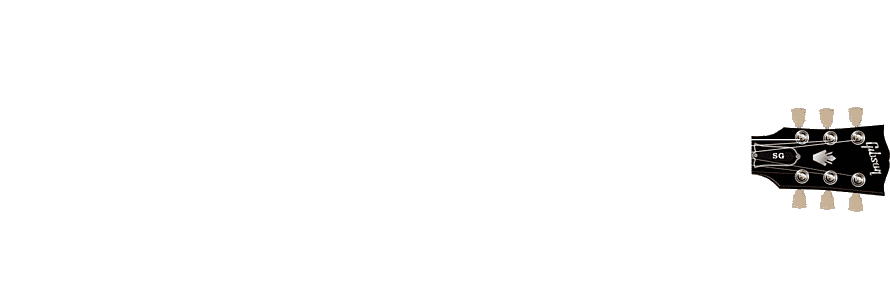
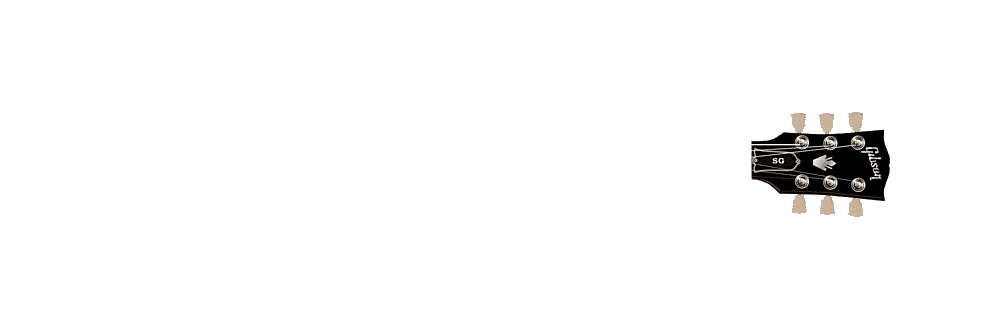
Add files via upload

Changed region(s): [[0.7281, 0.3267, 1.0, 0.7129]]

diff --git a/index.html b/index.html
@@ -6,10 +6,24 @@
                     background-image: url("R/paper.jpg");
                     text-align: center;
                     font-family: sans-serif;
+                    
                     #guitarBody {
-                        width: 500px;
-                        margin: 200px 400px;
-                        display: block;
+                        position:absolute;
+                        left: 400px;
+                        top: 200px;
+                        width: 1000px;
+                    }
+                    #guitarNeck {
+                        position: absolute;
+                        left: 352px;
+                        top: 178px;
+                        width: 1139px;
+                    }
+                    #guitarHead {
+                        position: absolute;
+                        left: 425px;
+                        top: 194px;
+                        width: 1045px;
                     }
                 }
             </style>
@@ -24,7 +38,6 @@
                     <option value="1">Stratocaster</option>
                     <option value="2">Telecaster</option>
                     <option value="3">SG</option>
-                    <option value="4">Les Paul</option>
                 </select>
 
                 <label for="neck">Neck</label>
@@ -32,18 +45,18 @@
                     <option value="1">Stratocaster</option>
                     <option value="2">Telecaster</option>
                     <option value="3">SG</option>
-                    <option value="4">Les Paul</option>  
                 </select>
 
                 <label for="head">Head</label>
                 <select id="head">
                     <option value="1">Stratocaster</option>
                     <option value="2">Telecaster</option>
-                    <option value="3">SG</option>
-                    <option value="4">Les Paul</option>  
+                    <option value="3">SG</option> 
                 </select>
 
-                <img id= "guitarBody" src="R/stratburstbody.png">
+                <img id="guitarBody" src="R/stratburstbody.png">
+                <img id="guitarNeck" src="R/stratburstneck.png">
+                <img id="guitarHead" src="R/stratbursthead.png">
 
                 <script>
                     const bodyDropdown = document.getElementById("body");
@@ -59,11 +72,33 @@
                     if (bodyDropdown.value === "3")
                         guitarBody.src = "R/sgblackbody.png";
 
-                    if (bodyDropdown.value === "4")
-                        guitarBody.src = "R/lespaulbody.png";
-                    
                     });
 
+                    const neckDropdown = document.getElementById("neck");
+                    neckDropdown.addEventListener("change", function() {
+
+                    if (neckDropdown.value === "1")
+                        guitarNeck.src = "R/stratburstneck.png";
+
+                    if (neckDropdown.value === "2")
+                        guitarNeck.src = "R/telecasternaturalneck.png";
+
+                    if (neckDropdown.value === "3")
+                        guitarNeck.src = "R/sgblackneck.png";
+                    });
+
+                    const headDropdown = document.getElementById("head");
+                    headDropdown.addEventListener("change", function() {
+                      
+                    if (headDropdown.value === "1")
+                        guitarHead.src = "R/stratbursthead.png";
+
+                    if (headDropdown.value === "2")
+                        guitarHead.src = "R/telecasternaturalhead.png";
+
+                    if (headDropdown.value === "3")
+                        guitarHead.src = "R/sgblackhead.png"
+                    });
                 </script>
             </body>
     </html>
